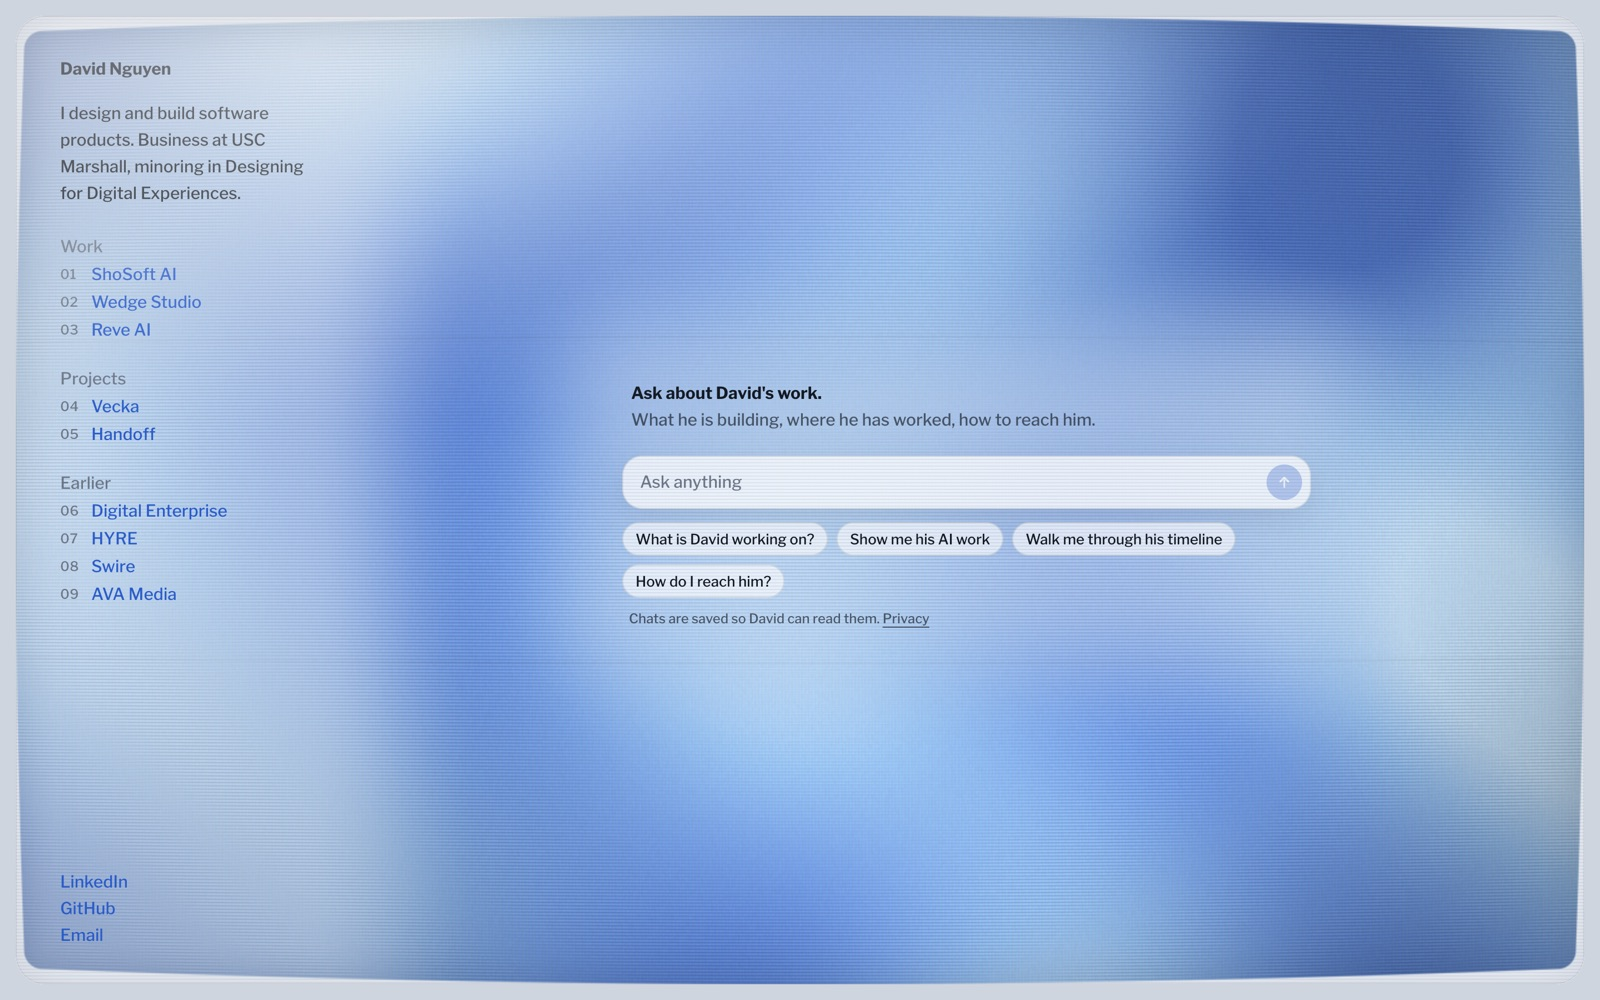
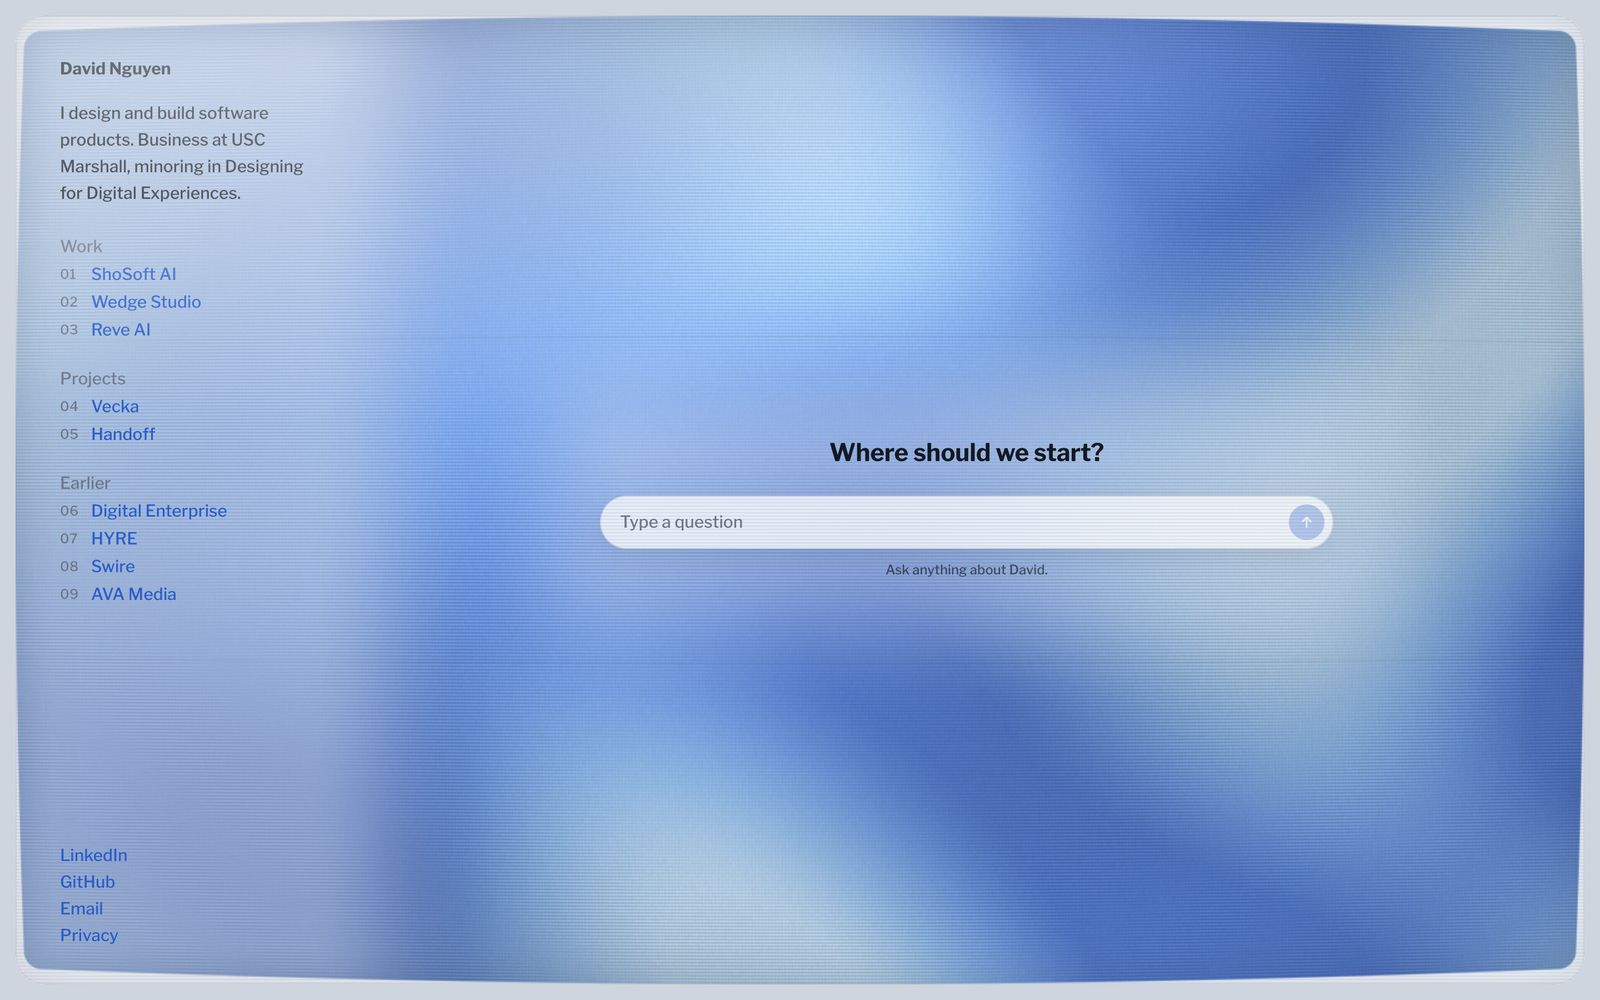
Simplify the chat: one headline, the box, one line under it
The empty chat now reads like ChatGPT. One headline picked at random per
visit sits above the box and "Ask anything about David." sits under it.
The suggestion chips and the line about saved chats are gone; Privacy is
now a link in the guide. A conversation is one centred column with the
box at the bottom. README and its screens updated.

diff --git a/src/components/site/chat/Chat.tsx b/src/components/site/chat/Chat.tsx
@@ -3,9 +3,10 @@
    site's own adapter (adapter.ts) and styled entirely by site.css, so it
    reads as text on the glass.
 
-   Where it sits. With nothing open it is the screen's main thing, centred
-   in the picture: a line, the box to type in and a few suggestions, then
-   the conversation above the box. With a project open it docks to the
+   Where it sits. With nothing open it is the screen's main thing, a
+   column centred in the picture: one line picked per visit, the box to
+   type in and a quiet note under it; once talking, the conversation
+   above the box, like any chat. With a project open it docks to the
    bottom of the strip beside the article as a slim bar; while it is in
    use (focused, or answering) the conversation opens upward as a short
    sheet over the strip. Under 1000px it is a bar along the bottom of the
@@ -33,12 +34,16 @@ import { chatAdapter, MAX_CHARS } from './adapter';
 import { SiteContext, ToolCard, type Site } from './cards';
 
 const KEY = 'dd_chat';
-const SUGGESTIONS = [
-  'What is David working on?',
-  'Show me his AI work',
-  'Walk me through his timeline',
-  'How do I reach him?',
+/* the line above the box, one picked per visit */
+const HEADLINES = [
+  'What do you want to know about David?',
+  'Ask me what David is building.',
+  'Curious how David works?',
+  'Where should we start?',
+  'Want the short version of David?',
+  'Ask about anything on the screen.',
 ];
+const NOTE = 'Ask anything about David.';
 
 /* the conversation, kept for this tab */
 type Stored = { id: string; role: 'user' | 'assistant'; content: ThreadMessageLike['content'] };
@@ -81,17 +86,19 @@ export function Chat(props: Props) {
   );
 }
 
-/* the chat before it is live: the same box, nothing to do yet */
+/* the chat before it is live: the same box, nothing to do yet (the
+   headline is kept blank so a different one never flashes in) */
 function Still({ open }: { open: string | null }) {
   return (
     <div id="crt-chat-slot" className="crt-slot" data-mode={open ? 'dock' : 'center'} data-empty="">
       <div className="chat">
         <div className="chat-body">
-          <div className="chat-hello"><p className="chat-title">Ask about David's work.</p></div>
+          <div className="chat-hello"><p className="chat-title">&nbsp;</p></div>
         </div>
         <div className="composer">
-          <textarea className="composer-input" rows={1} placeholder="Ask anything" aria-label="Message" disabled />
+          <textarea className="composer-input" rows={1} placeholder="Type a question" aria-label="Message" disabled />
         </div>
+        <p className="chat-note">{NOTE}</p>
       </div>
     </div>
   );
@@ -123,6 +130,7 @@ function Screen({ open }: { open: string | null }) {
   const slot = useRef<HTMLDivElement>(null);
   const input = useRef<HTMLTextAreaElement>(null);
   const empty = useAuiState((s) => s.thread.isEmpty);
+  const [headline] = useState(() => HEADLINES[Math.floor(Math.random() * HEADLINES.length)]);
   const running = useAuiState((s) => s.thread.isRunning);
 
   const [narrow, setNarrow] = useState(false);
@@ -172,8 +180,7 @@ function Screen({ open }: { open: string | null }) {
         <ThreadPrimitive.Viewport className="chat-body">
           <AuiIf condition={(s) => s.thread.isEmpty}>
             <div className="chat-hello">
-              <p className="chat-title">Ask about David's work.</p>
-              <p className="chat-sub">What he is building, where he has worked, how to reach him.</p>
+              <h2 className="chat-title">{headline}</h2>
             </div>
           </AuiIf>
           <ThreadPrimitive.Messages>
@@ -183,14 +190,7 @@ function Screen({ open }: { open: string | null }) {
 
         <Composer input={input} onEscape={away} />
 
-        <AuiIf condition={(s) => s.thread.isEmpty}>
-          <div className="chips" role="list">
-            {SUGGESTIONS.map((p) => (
-              <ThreadPrimitive.Suggestion key={p} prompt={p} send className="chip" role="listitem">{p}</ThreadPrimitive.Suggestion>
-            ))}
-          </div>
-        </AuiIf>
-        <p className="chat-privacy">Chats are saved so David can read them. <a href="/privacy/">Privacy</a></p>
+        <p className="chat-note">{NOTE}</p>
       </ThreadPrimitive.Root>
     </div>
   );
@@ -203,7 +203,7 @@ function Composer({ input, onEscape }: { input: React.RefObject<HTMLTextAreaElem
       <ComposerPrimitive.Input
         ref={input}
         className="composer-input"
-        placeholder="Ask anything"
+        placeholder="Type a question"
         aria-label="Message"
         rows={1}
         maxRows={6}

diff --git a/src/styles/site.css b/src/styles/site.css
@@ -301,10 +301,10 @@ button { font: inherit; color: inherit; }
   position: absolute;
   z-index: 2;
   left: calc(var(--side) + (100% - var(--side)) / 2);
-  top: 50%;
-  width: min(620px, calc(100% - var(--side) - 96px));
-  height: min(600px, calc(100% - 72px));
-  transform: translate(-50%, -50%);
+  top: 28px;
+  bottom: 22px;
+  width: min(660px, calc(100% - var(--side) - 96px));
+  transform: translateX(-50%);
   pointer-events: none;
   text-shadow: var(--glow);
 }
@@ -317,8 +317,8 @@ button { font: inherit; color: inherit; }
   justify-content: flex-end;
   gap: 10px;
 }
-/* empty, the line, the box and the suggestions sit together in the middle */
-.crt-slot[data-mode="center"][data-empty] .chat { inset: 0; top: auto; bottom: 50%; transform: translateY(50%); }
+/* empty, the line, the box and the note sit together in the middle */
+.crt-slot[data-mode="center"][data-empty] .chat { inset: auto 0 50%; transform: translateY(50%); }
 .chat-body {
   min-height: 0;
   overflow-y: auto;
@@ -336,9 +336,8 @@ button { font: inherit; color: inherit; }
 .crt-slot[data-empty] .chat-body { mask-image: none; }
 .crt-slot[data-mode="center"][data-empty] .chat-body { overflow: visible; }
 
-.chat-hello { padding: 0 4px 6px; }
-.chat-title { font-weight: 700; }
-.chat-sub { color: var(--soft); }
+.chat-hello { padding: 0 4px 10px; text-align: center; }
+.chat-title { font-size: 22px; line-height: 30px; font-weight: 700; letter-spacing: -0.005em; }
 
 .msg { display: flex; flex-direction: column; gap: 10px; }
 .msg-user { align-items: flex-end; }
@@ -385,8 +384,8 @@ button { font: inherit; color: inherit; }
   display: flex;
   align-items: flex-end;
   gap: 8px;
-  padding: 8px 8px 8px 16px;
-  border-radius: 18px;
+  padding: 8px 8px 8px 18px;
+  border-radius: 24px;
   background: rgba(6, 9, 15, 0.62);
   box-shadow: inset 0 0 0 1px rgba(200, 220, 255, 0.12), 0 10px 40px rgba(0, 0, 0, 0.35);
   -webkit-backdrop-filter: blur(14px);
@@ -427,25 +426,7 @@ button { font: inherit; color: inherit; }
 .composer-btn:disabled { opacity: 0.3; cursor: default; }
 .composer-btn.is-stop { background: color-mix(in srgb, var(--ink) 85%, transparent); }
 
-.chips { display: flex; flex-wrap: wrap; gap: 8px; padding: 2px 0 0; }
-.chip {
-  padding: 5px 12px;
-  border: 0;
-  border-radius: 999px;
-  background: rgba(6, 9, 15, 0.45);
-  box-shadow: inset 0 0 0 1px rgba(200, 220, 255, 0.12);
-  -webkit-backdrop-filter: blur(10px);
-  backdrop-filter: blur(10px);
-  color: var(--ink);
-  font-size: 13px;
-  line-height: 20px;
-  text-shadow: inherit;
-  cursor: pointer;
-  transition: box-shadow 160ms var(--ease), color 160ms var(--ease);
-}
-@media (hover: hover) { .chip:hover { box-shadow: inset 0 0 0 1px color-mix(in srgb, var(--link) 60%, transparent); color: var(--link); } }
-.chat-privacy { padding: 0 6px; color: var(--soft); font-size: 12px; line-height: 18px; }
-.chat-privacy a { text-decoration: underline; text-underline-offset: 3px; }
+.chat-note { color: var(--soft); font-size: 12px; line-height: 18px; text-align: center; }
 
 /* cards inside answers */
 .cards { display: grid; grid-template-columns: repeat(auto-fill, minmax(210px, 1fr)); gap: 8px; }
@@ -487,7 +468,8 @@ a.card:hover, a.card:focus-visible { box-shadow: inset 0 0 0 1px color-mix(in sr
   transform: none;
 }
 .crt-slot[data-mode="dock"] .cards { grid-template-columns: 1fr; }
-.crt-slot:is([data-mode="dock"], [data-mode="bar"]):not([data-expanded]) :is(.chat-body, .chips, .chat-privacy, .chat-head) { display: none; }
+.crt-slot:is([data-mode="dock"], [data-mode="bar"]):not([data-expanded]) :is(.chat-body, .chat-note, .chat-head) { display: none; }
+.crt-slot[data-mode="dock"] .chat-note { display: none; }
 .crt-slot[data-mode="dock"][data-expanded] .chat {
   padding: 12px 10px 10px;
   border-radius: 20px;
@@ -500,7 +482,6 @@ a.card:hover, a.card:focus-visible { box-shadow: inset 0 0 0 1px color-mix(in sr
 @media (prefers-color-scheme: light) {
   .composer { background: rgba(250, 251, 253, 0.78); box-shadow: inset 0 0 0 1px rgba(18, 24, 33, 0.1), 0 10px 30px rgba(30, 45, 80, 0.12); }
   .composer:focus-within { box-shadow: inset 0 0 0 1px color-mix(in srgb, var(--link) 50%, transparent), 0 10px 30px rgba(30, 45, 80, 0.12); }
-  .chip { background: rgba(250, 251, 253, 0.7); box-shadow: inset 0 0 0 1px rgba(18, 24, 33, 0.1); }
   .card { background: rgba(255, 255, 255, 0.55); }
   .crt-slot[data-mode="dock"][data-expanded] .chat { background: rgba(244, 246, 250, 0.82); box-shadow: inset 0 0 0 1px rgba(18, 24, 33, 0.08); }
   .cursor { box-shadow: none; }

diff --git a/src/components/site/App.tsx b/src/components/site/App.tsx
@@ -24,6 +24,7 @@ const LINKS = [
   { label: 'LinkedIn', url: 'https://www.linkedin.com/in/daviddn' },
   { label: 'GitHub', url: 'https://github.com/daviddn06' },
   { label: 'Email', url: 'mailto:daviddn@usc.edu' },
+  { label: 'Privacy', url: '/privacy/' },
 ];
 
 const slugOf = (path: string) => path.match(/^\/projects\/([^/]+)\/?$/)?.[1] ?? null;

diff --git a/README.md b/README.md
@@ -10,7 +10,7 @@ I'm David Nguyen, a business student at USC Marshall with a minor in Designing f
 
 - **The whole page is the screen.** There is no sidebar beside a picture. My name, a line about me and every project sit on the glass as an on screen guide, with projects numbered like channels. Up and down change the channel.
 - **Projects open on the glass.** Picking one blanks the picture from the left, line by line, and the write up appears underneath. The project's logo glows in the strip that's left, in that brand's colours.
-- **A chat in the middle.** Visitors can ask about my work. Answers stream in, and when it helps the assistant shows project cards, a timeline or my contact details, or opens a project on the page for them.
+- **A chat in the middle.** It opens the way ChatGPT does, one question picked at random above the box and "Ask anything about David." under it. Visitors can ask about my work. Answers stream in, and when it helps the assistant shows project cards, a timeline or my contact details, or opens a project on the page for them.
 - **It feels like a real tube.** It powers on with a dot, a line and a short wobble, moving things leave a little afterglow, and the picture bends slightly near the cursor like a magnet near the glass.
 
 | A question answered with cards | A project open, chat docked | On a phone |
@@ -44,7 +44,7 @@ Scanlines always land on whole device pixels so they never shimmer, and the rend
 
 ### The chat
 
-The chat UI is built on [assistant-ui](https://github.com/assistant-ui/assistant-ui)'s unstyled pieces, restyled so the text reads as if it's on the glass. It streams from `/a/chat`, a small endpoint on my server that calls Claude Haiku 5.5. The model only knows a written profile of my public work, and it answers with tool calls the page renders as cards or acts on (`open_project`, `show_projects`, `show_timeline`, `show_contact`, `show_resume`).
+The chat UI is built on [assistant-ui](https://github.com/assistant-ui/assistant-ui)'s unstyled pieces, restyled so the text reads as if it's on the glass. It's deliberately bare, a headline, the box and one line under it, and once a conversation starts it's a single centred column. It streams from `/a/chat`, a small endpoint on my server that calls Claude Haiku 5.5. The model only knows a written profile of my public work, and it answers with tool calls the page renders as cards or acts on (`open_project`, `show_projects`, `show_timeline`, `show_contact`, `show_resume`).
 
 Guardrails, in the order a message meets them.
 
@@ -58,7 +58,7 @@ The profile is cached, so a typical answer costs well under a tenth of a cent.
 
 ### Privacy
 
-The site counts visits with my own script, not a third party. It keeps a random id in the browser, never stores IP addresses, sets no cookies and runs no ads. Browsers that send Do Not Track or Global Privacy Control are not counted at all. Chats are saved so I can read and reply, which the chat says right under the input. The plain words version is at [daviddn.dev/privacy](https://daviddn.dev/privacy/).
+The site counts visits with my own script, not a third party. It keeps a random id in the browser, never stores IP addresses, sets no cookies and runs no ads. Browsers that send Do Not Track or Global Privacy Control are not counted at all. Chats are saved so I can read and reply. That's spelled out on the privacy page, which is one of the links in the guide. The plain words version is at [daviddn.dev/privacy](https://daviddn.dev/privacy/).
 
 ## The projects on it
 
